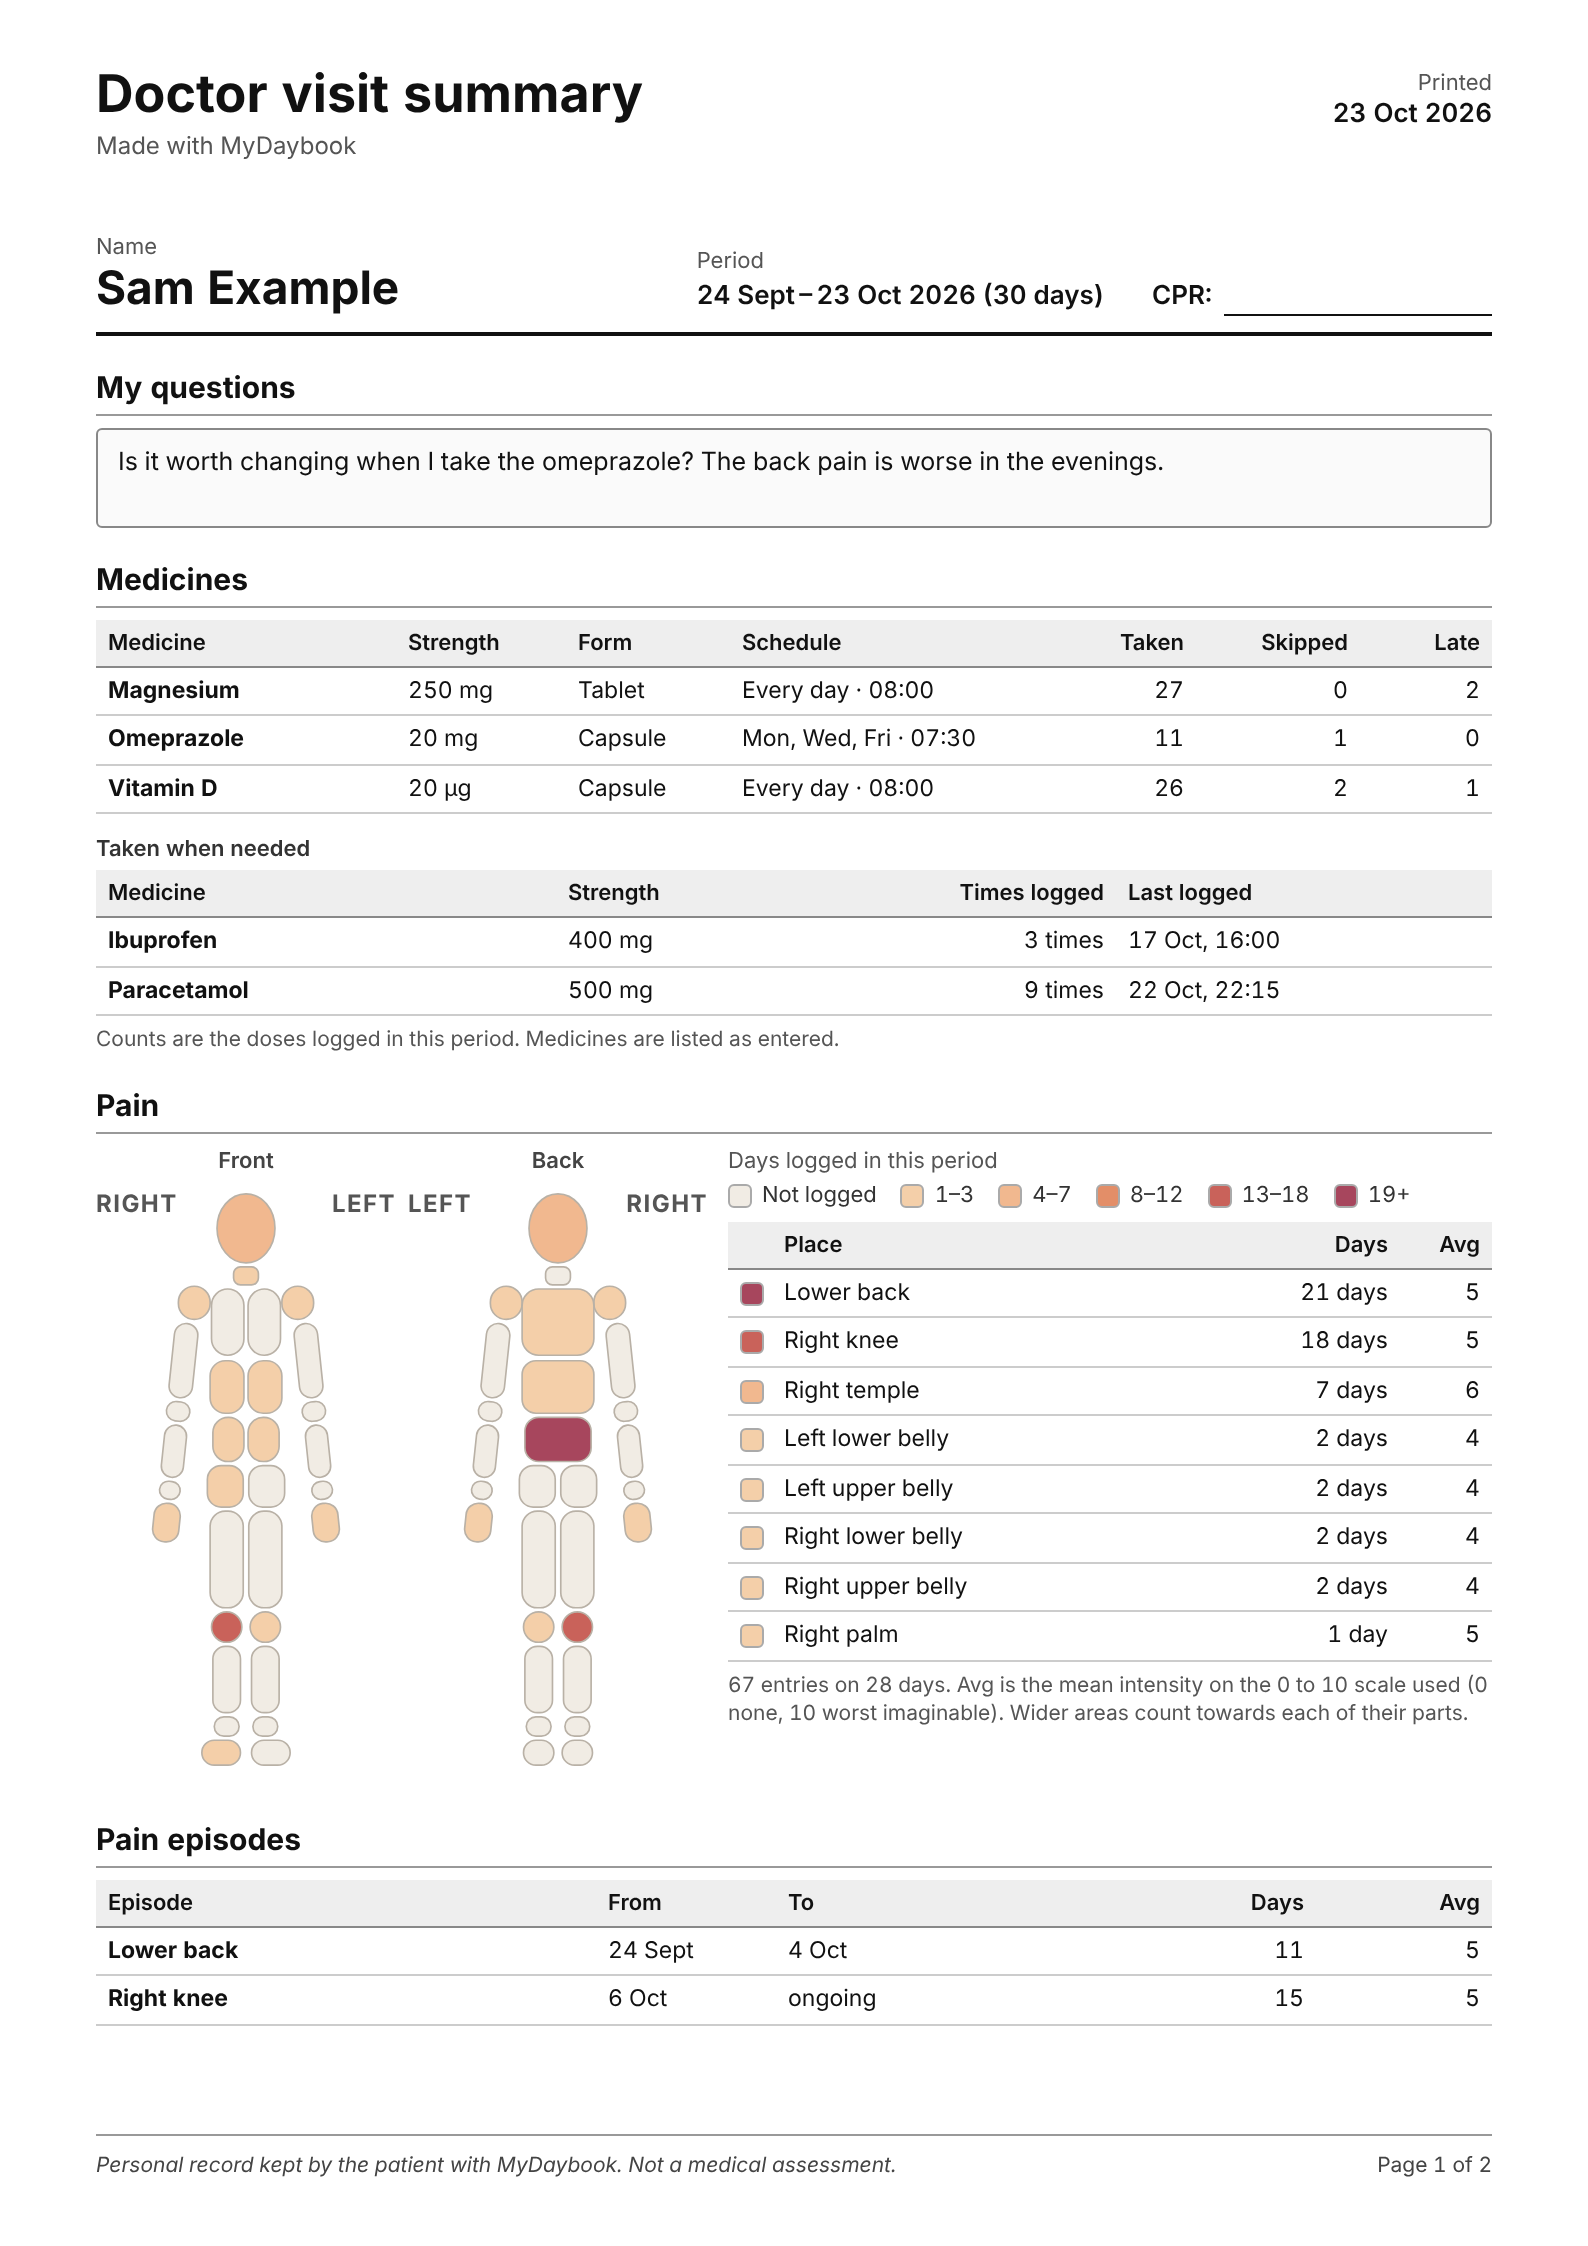
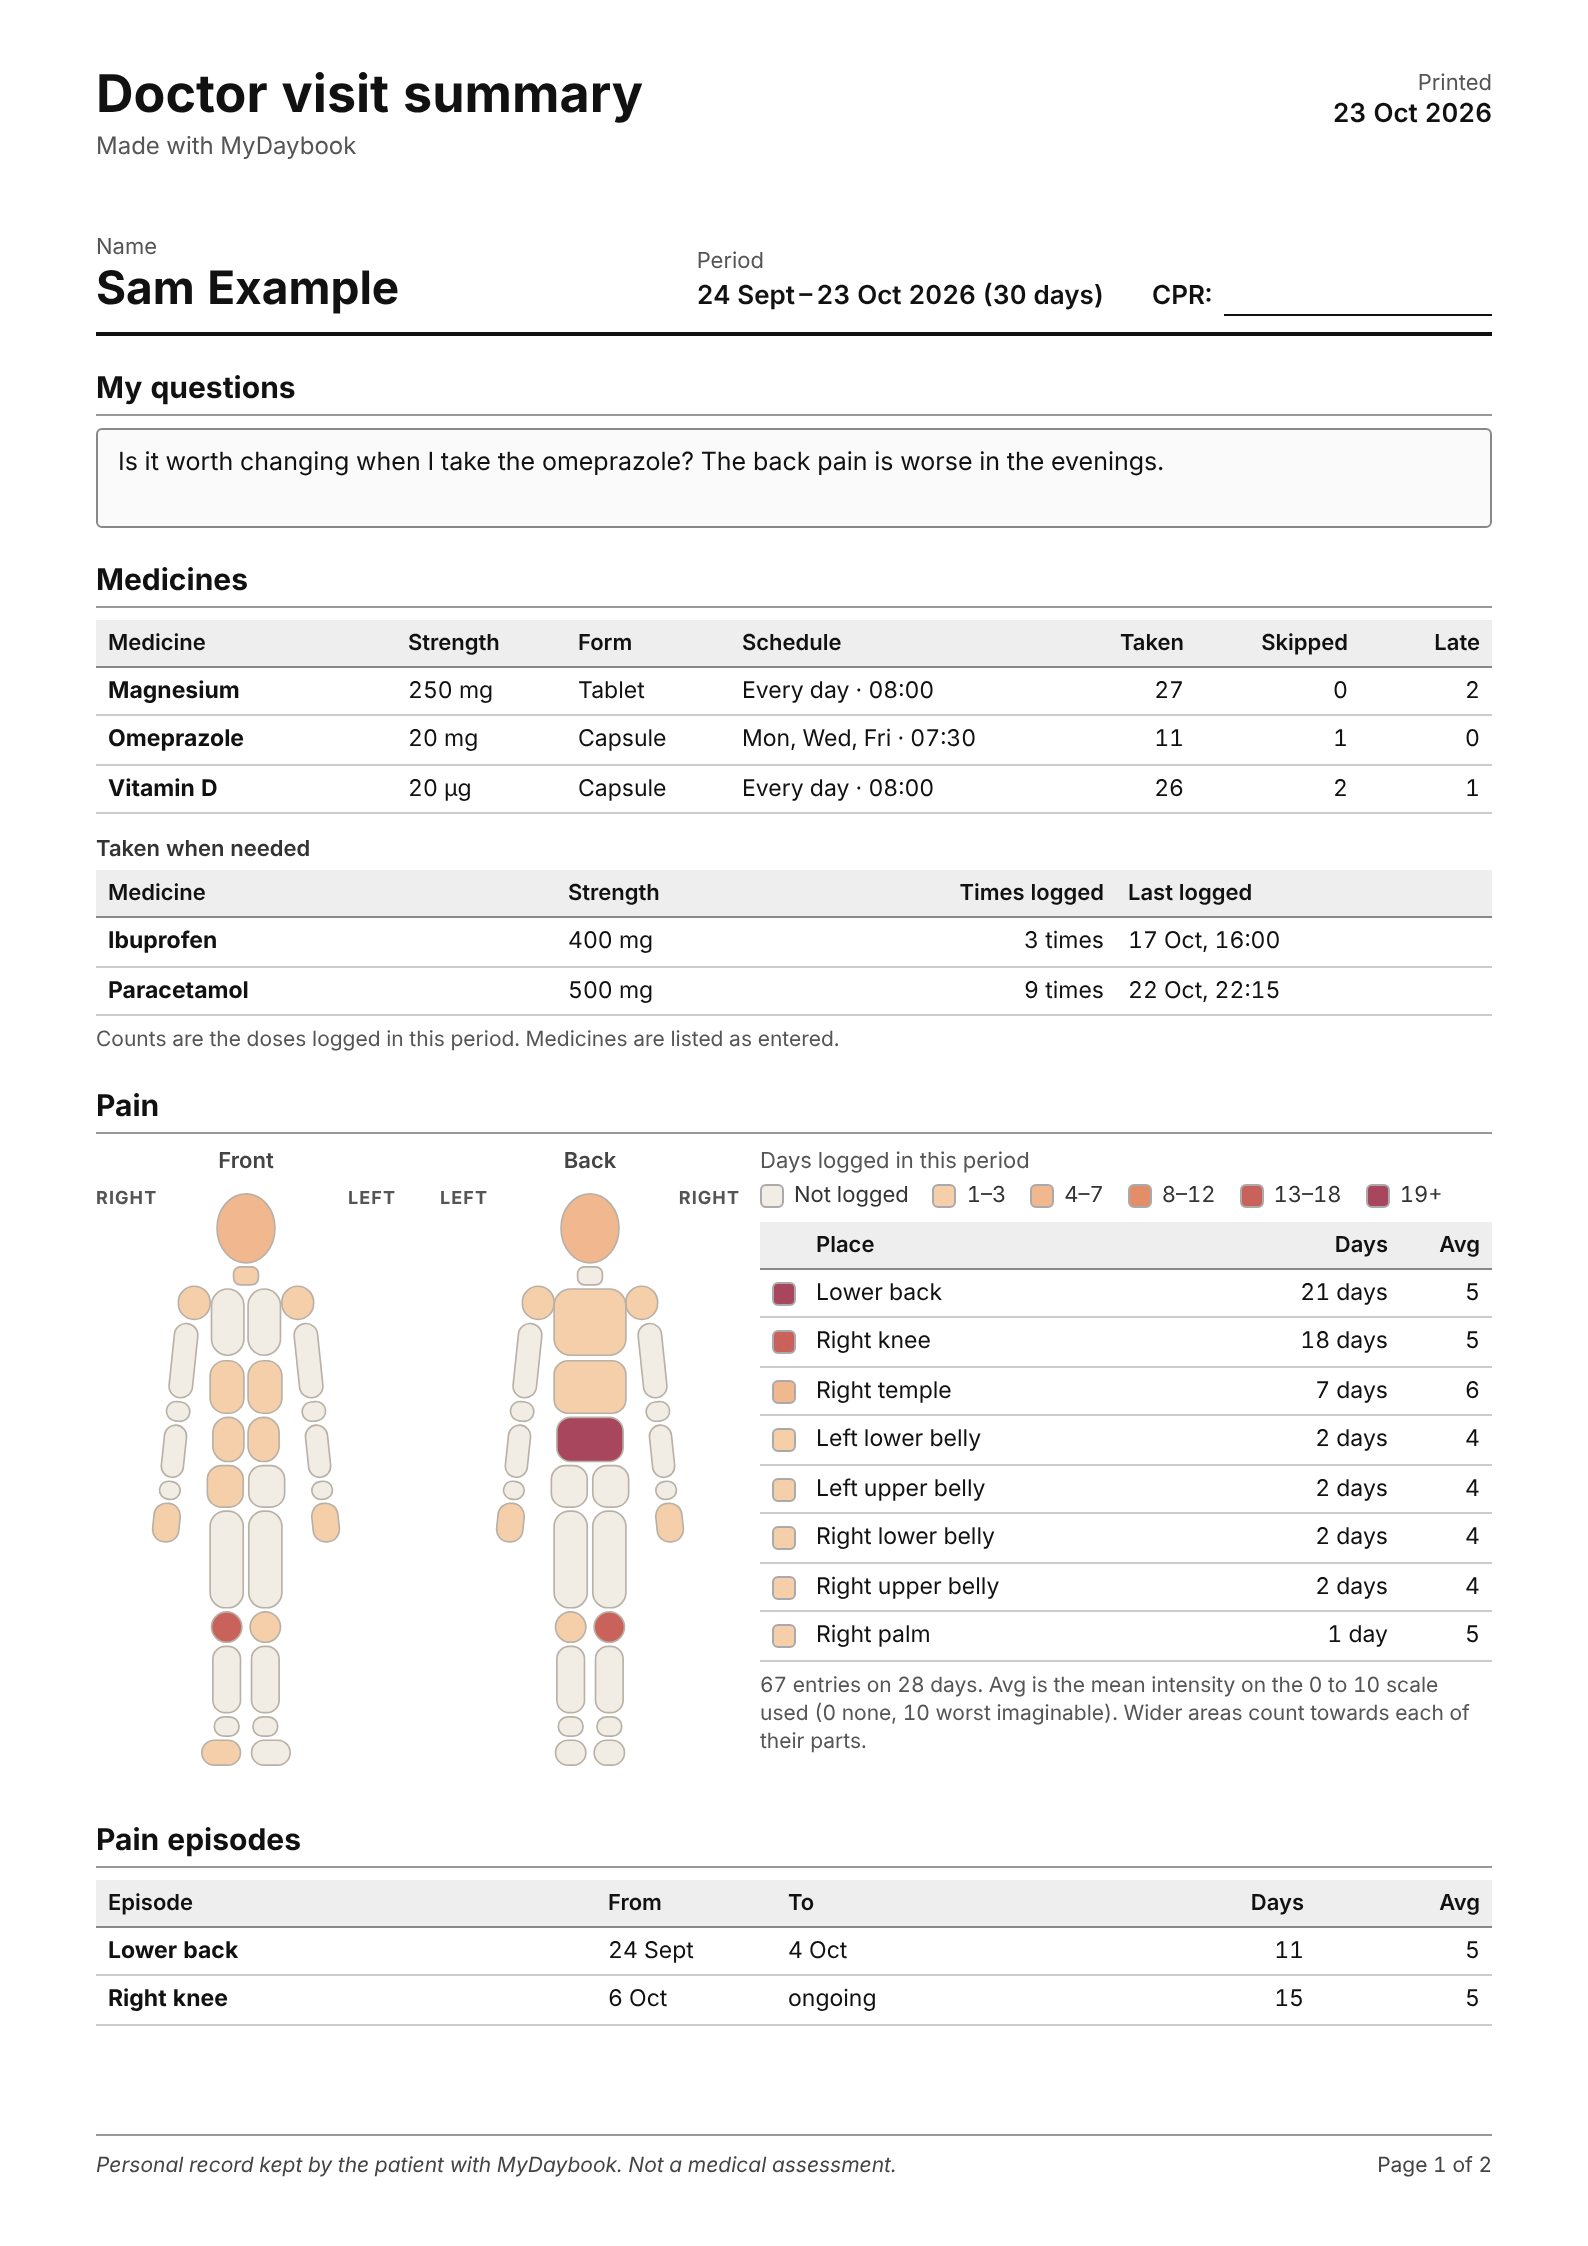
fix(reports): room between the body figures so side labels don't run together
Claude-Session: https://claude.ai/code/session_01PxrxK9pjmsb3qASX55sCVN

diff --git a/src/lib/reports/DoctorPages.svelte b/src/lib/reports/DoctorPages.svelte
@@ -685,8 +685,12 @@
 	}
 	.figs {
 		display: flex;
-		gap: 6px;
+		gap: 22px;
 		flex: none;
+	}
+	/* Smaller side labels with room between the figures, so "Left" of one never runs into the next. */
+	.figs :global(.edge) {
+		font-size: 9px;
 	}
 	.figs figure {
 		width: 150px;
